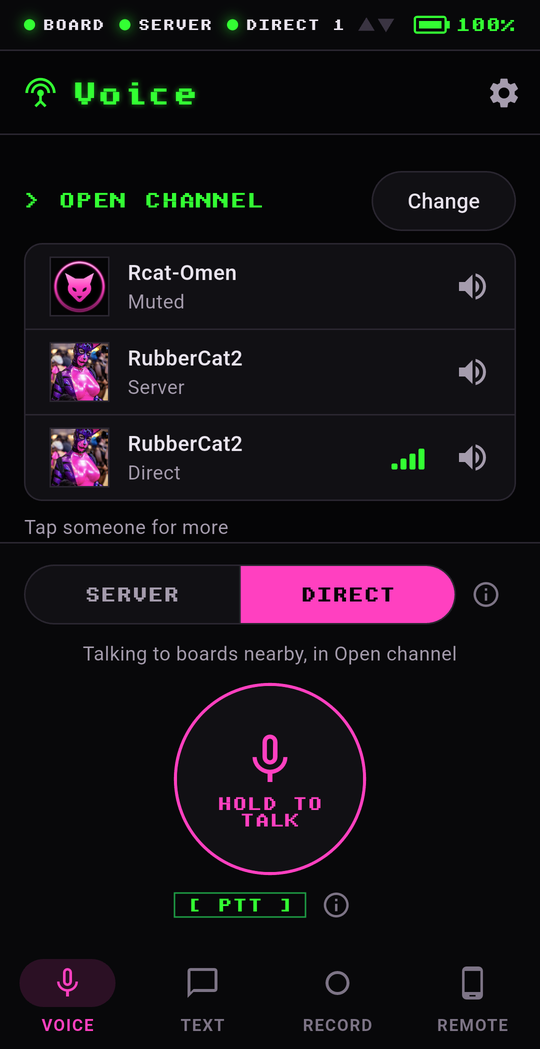
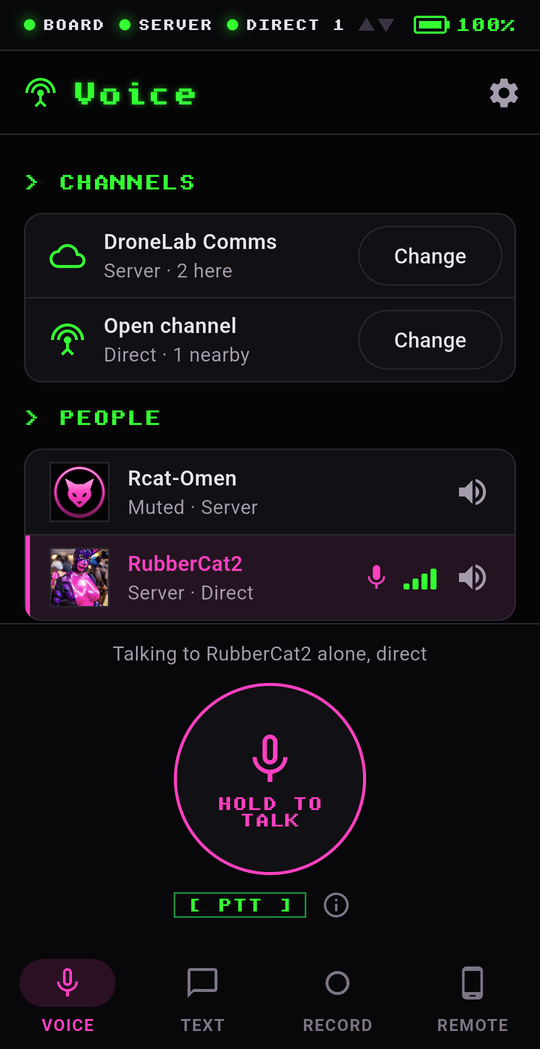
Voice tab screenshot: channels and people, one picked to talk to alone

diff --git a/README.md b/README.md
@@ -75,7 +75,7 @@ The DroneLab display unit screws into the mask's voice port: a glowing 1.75" rou
 - **Remote operation:** the DroneLab app for Android runs the whole display unit from a phone over Bluetooth.  Change what's displayed on the screen and operate features without having to see the display.  Phones without the app (including iPhones) can run it through the display unit's own WiFi hotspot, in a web browser.  [The app](docs/app/README.md) · [Hotspot remote](docs/features/phone-remote.md)
 
 <p align="center">
-<a href="docs/app/voice.md"><img src="docs/images/app_hivemind.png" width="270" alt="The DroneLab app's Voice tab: the hive on the server and a unit heard directly, each with their avatar, and the talk button"></a>
+<a href="docs/app/voice.md"><img src="docs/images/app_hivemind.png" width="270" alt="The DroneLab app's Voice tab: the server and direct channels, the people about with their avatars, one picked to talk to alone, and the talk button"></a>
 &nbsp;
 <a href="docs/app/remote.md"><img src="docs/images/app_remote.png" width="270" alt="The DroneLab app's Remote tab, running the display unit's screen over Bluetooth"></a>
 </p>

diff --git a/docs/app/README.md b/docs/app/README.md
@@ -3,7 +3,7 @@
 The DroneLab app is the phone's half of your unit.  It links your unit to the rest of the hive, so you can talk and listen to other drones, text them and send them commands, records your voice for videos, runs the unit's display from your hand, and keeps the unit's firmware up to date.  It's for Android phones and tablets.
 
 <p align="center">
-<img src="../images/app_hivemind.png" width="260" alt="The Voice tab: who's in the hive, with their avatars, and the talk button">
+<img src="../images/app_hivemind.png" width="260" alt="The Voice tab: the channels, the people about with their avatars, who you're talking to, and the talk button">
 &nbsp;
 <img src="../images/app_remote.png" width="260" alt="The Remote tab: running the unit's display from the phone">
 </p>
